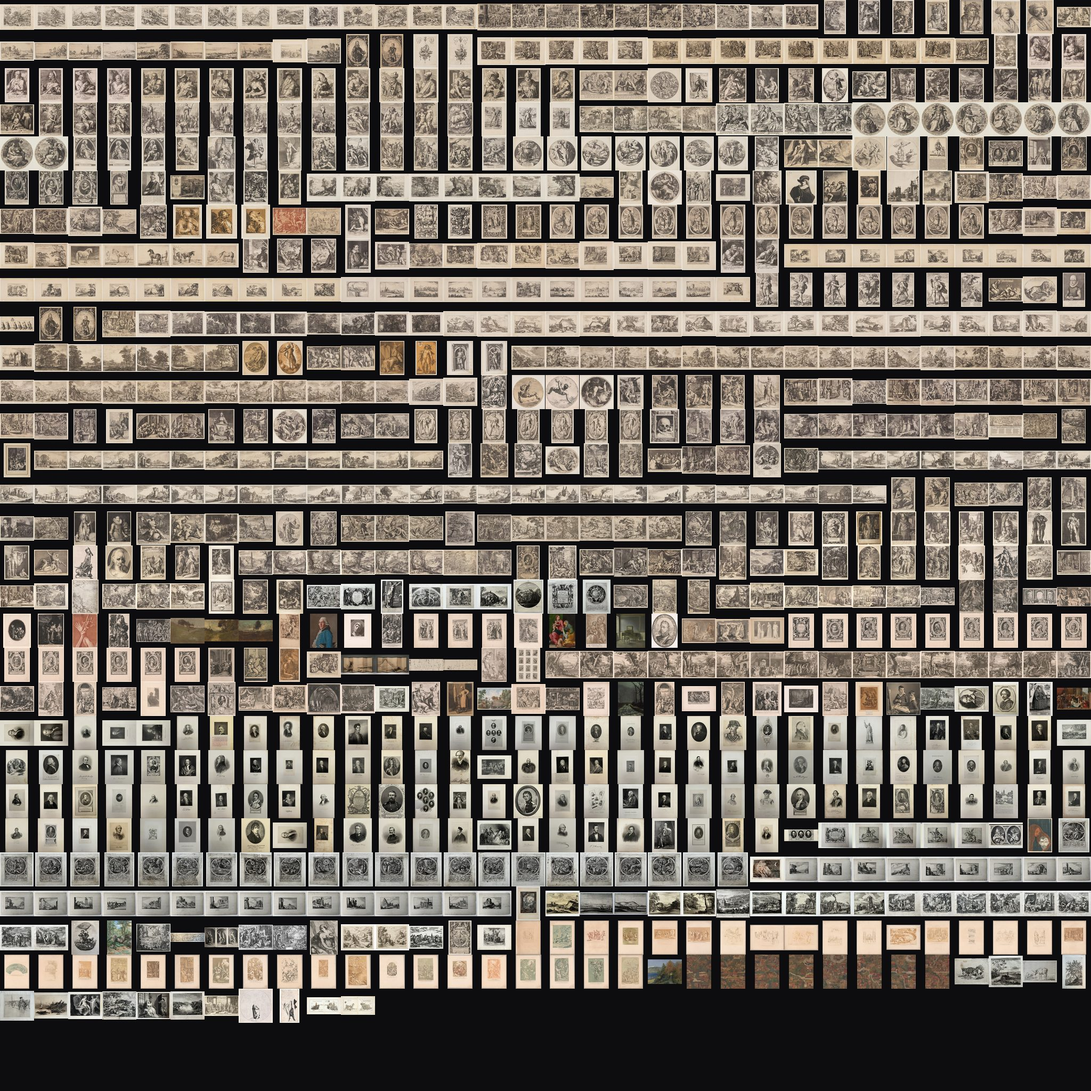
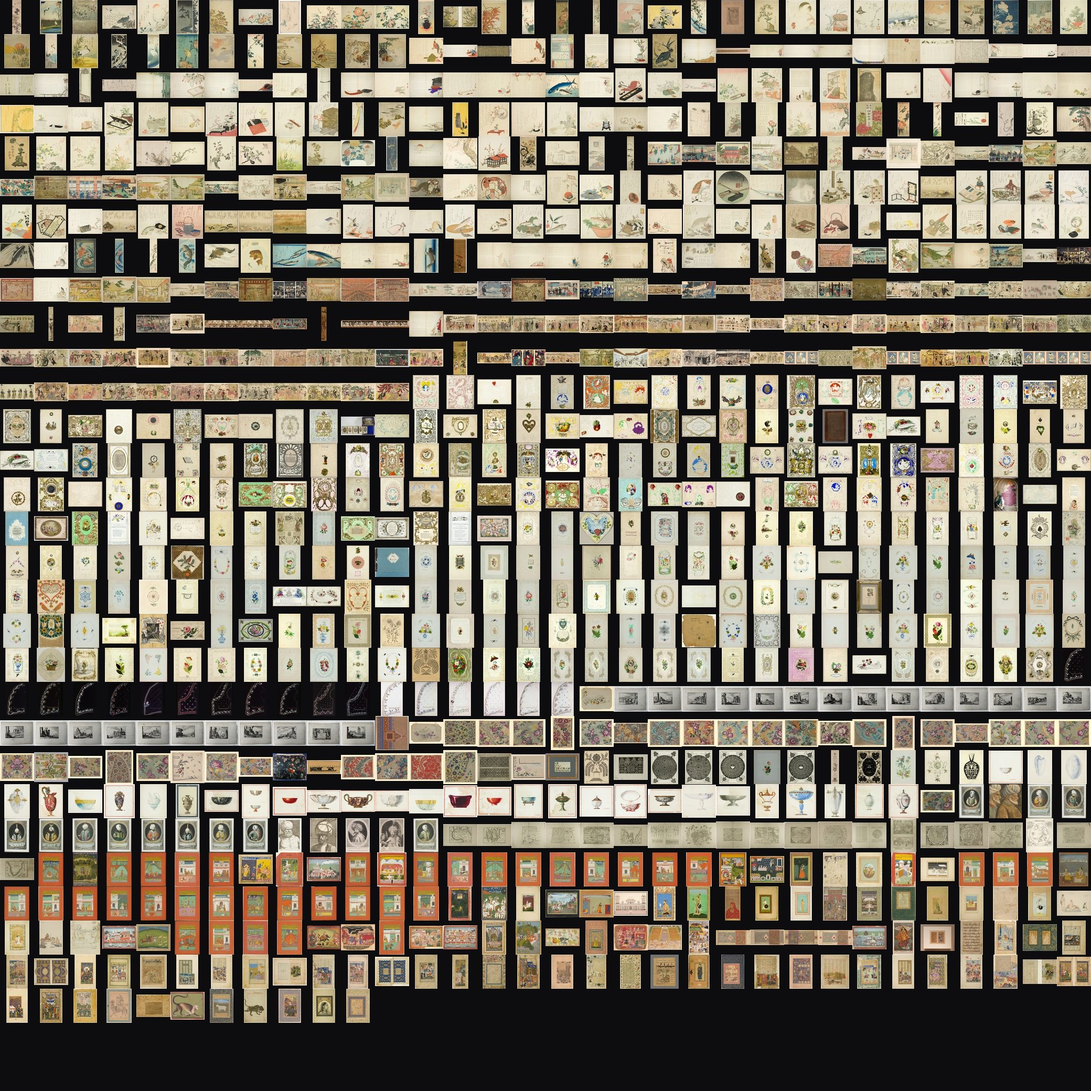
D5c: pack the 64px atlas along the map, and stop fetching it up front
Every visitor was pulling all 25 sheets, 24 MB, before anything could
use them. At the view the map opens on a tile is 1.8 pixels across,
below the 3.5 at which a thumbnail is drawn at all, so the map paints
flat colour and reads no sheet. Anyone who looked and left used none of
it.

Two changes behind that.

The sheets were packed in artwork-id order, which says nothing about
where a work sits, so 400 neighbouring works spanned 23.6 of the 25
sheets and loading a screenful meant loading the atlas. Re-packed along
the same Hilbert curve the high-resolution atlas uses, the same 400
works span 2.8 sheets under Similarity, 10.2 under Place, 9.6 under
Style. Period stays at 18.4; its ribbon reorders the corpus, and one
curve can only follow one arrangement.

Nothing was refetched. Every tile already existed in the old sheets, so
this moves them. Checked the way the atlas has been checked before:
against each work's independently recorded colour, 7.7 of 255 against
its own and 44.4 against an unrelated work's.

And the fetch now waits until the map first wants a thumbnail, which is
the first time anyone zooms in.

The order cannot be checked from inside a JPEG, so D5 now compares the
order it computes against the one the sheets were packed with and says
so if they part company.

diff --git a/web/src/MapCanvas.tsx b/web/src/MapCanvas.tsx
@@ -172,7 +172,7 @@ export interface MapPin {
 
 export function MapCanvas({
   bundle, facet, selected, onSelect, focus, pins, activePin, onOpenPin,
-  onRegion, rightInset, paused,
+  onRegion, rightInset, paused, onNeedAtlas,
 }: {
   bundle: Bundle;
   facet: Facet;
@@ -193,6 +193,9 @@ export function MapCanvas({
    *  tiles a frame; giving that up is most of what makes the wait
    *  bearable, and a half-drawn map is worse than a still one. */
   paused: boolean;
+  /** Called the first time a thumbnail is wanted. The sheets are not
+   *  fetched before that, because the opening view draws flat colour. */
+  onNeedAtlas: () => void;
 }) {
   const canvasRef = useRef<HTMLCanvasElement>(null);
   const viewRef = useRef<View>({ x: 0.5, y: 0.5, scale: 0 });
@@ -237,7 +240,8 @@ export function MapCanvas({
   const flyRef = useRef<
     { from: View; to: View; start: number; ms: number } | null>(null);
 
-  const { works, layouts, atlasMeta, sheets, mips, facets, hires } = bundle;
+  const { works, layouts, atlasMeta, sheets, mips, slots, facets, hires }
+    = bundle;
   // Per facet: a left-to-right timeline is a ribbon an eighth the area
   // of the round layouts, so it carries a smaller tile.
   const radius = layouts.facets[facet].work_radius ?? layouts.work_radius;
@@ -543,6 +547,7 @@ export function MapCanvas({
 
       const pos = posRef.current;
       const size = Math.max(1, radius * 2 * s);
+      if (size >= THUMB_MIN_PX) onNeedAtlas();
       const useThumbs = size >= THUMB_MIN_PX && sheets.length > 0;
       // Below this a tile does not use a 64px cell, it only pays to read
       // one. The reduction is exact at MIP_TILE and a clean downscale
@@ -638,14 +643,17 @@ export function MapCanvas({
           }
         }
 
-        const sheetIndex = (i / per_sheet) | 0;
+        // Its slot, not its index: the sheets are packed along a curve
+        // through the map, so neighbouring works share a sheet.
+        const slot = slots[i];
+        const sheetIndex = (slot / per_sheet) | 0;
         const sheet = useThumbs
           ? (useMip ? mips[sheetIndex] : sheets[sheetIndex]) : undefined;
         if (sheet) {
           // The atlas cell is square with the work letterboxed inside it,
           // so read back only the occupied part. Drawing the whole cell
           // would paint its padding over the neighbouring tiles.
-          const within = i % per_sheet;
+          const within = slot % per_sheet;
           const iw = ar >= 1 ? srcTile : srcTile * ar;
           const ih = ar >= 1 ? srcTile / ar : srcTile;
           ctx.drawImage(
@@ -769,10 +777,10 @@ export function MapCanvas({
         // would only make it blurrier.
         if (box > size) {
           ctx.imageSmoothingEnabled = true;
-          const si = (highlight / per_sheet) | 0;
-          const sh = sheets[si];
+          const hslot = slots[highlight];
+          const sh = sheets[(hslot / per_sheet) | 0];
           if (sh) {
-            const within = highlight % per_sheet;
+            const within = hslot % per_sheet;
             const iw = ar >= 1 ? tile : tile * ar;
             const ih = ar >= 1 ? tile / ar : tile;
             ctx.drawImage(
@@ -829,7 +837,7 @@ export function MapCanvas({
     frame = requestAnimationFrame(draw);
     return () => { cancelAnimationFrame(frame); ro.disconnect(); };
   }, [works, layouts, facet, atlasMeta, sheets, mips, radius, fit, ready,
-      images, hires, hiAtlas, focus, pins, activePin]);
+      images, hires, hiAtlas, focus, pins, activePin, slots, onNeedAtlas]);
 
   useEffect(() => {
     if (!focus) return;

diff --git a/web/src/useData.ts b/web/src/useData.ts
@@ -1,4 +1,4 @@
-import { useEffect, useState } from "react";
+import { useCallback, useEffect, useRef, useState } from "react";
 import type { AtlasMeta, Facets, Layouts, Work } from "./types";
 
 export interface Bundle {
@@ -10,6 +10,10 @@ export interface Bundle {
   sheets: HTMLImageElement[];
   /** Quarter-size copies of the sheets, 16px to a tile. */
   mips: HTMLCanvasElement[];
+  /** Where each work's tile sits in the atlas. The sheets are packed
+   *  along a Hilbert curve through the map rather than in artwork-id
+   *  order, so a work's index no longer says where its tile is. */
+  slots: number[];
   hires: { meta: AtlasMeta; slots: number[] } | null;
 }
 
@@ -66,6 +70,15 @@ function loadImage(src: string): Promise<HTMLImageElement> {
 export function useBundle() {
   const [bundle, setBundle] = useState<Bundle | null>(null);
   const [error, setError] = useState<string | null>(null);
+  // Resolved the first time the map wants a thumbnail. Until then the
+  // sheets are not fetched at all.
+  const gate = useRef<{ promise: Promise<void>; open: () => void }>(undefined!);
+  if (!gate.current) {
+    let open!: () => void;
+    const promise = new Promise<void>((res) => { open = res; });
+    gate.current = { promise, open };
+  }
+  const needAtlas = useCallback(() => gate.current.open(), []);
 
   useEffect(() => {
     let cancelled = false;
@@ -89,10 +102,12 @@ export function useBundle() {
         // state updates, and since `sheets` is a dependency of the effect
         // that owns the render loop, 25 teardowns and restarts of it
         // during the one moment the map is busiest.
+        const slots = await json<number[]>("data/atlas_slots.json");
+        if (cancelled) return;
         const sheets: HTMLImageElement[] = [];
         const mips: HTMLCanvasElement[] = [];
         setBundle({ works, layouts, facets, neighbors: {}, atlasMeta, sheets,
-                    mips, hires: null });
+                    mips, slots, hires: null });
 
         // Only read when a detail panel opens, which cannot happen before
         // there is a map to click on. Awaiting it here put 3.5 MB of JSON
@@ -114,6 +129,15 @@ export function useBundle() {
             }
           })
           .catch(() => { /* no high-resolution atlas built yet */ });
+
+        // Not until the map asks. At the view it opens on, a tile is
+        // under two pixels across, which is below the size at which the
+        // map draws a thumbnail at all: it paints flat colour and reads
+        // no sheet. Fetching all 25 up front spent 24 MB before a single
+        // pixel of it could be used, and anyone who looked at the map
+        // and left never used any of it.
+        await gate.current.promise;
+        if (cancelled) return;
 
         // A few at a time rather than one after another. These were
         // awaited in sequence, so the whole atlas cost 25 round trips
@@ -143,5 +167,5 @@ export function useBundle() {
     return () => { cancelled = true; };
   }, []);
 
-  return { bundle, error };
+  return { bundle, error, needAtlas };
 }

diff --git a/web/src/App.tsx b/web/src/App.tsx
@@ -20,7 +20,7 @@ const FACETS: { key: Facet; label: string }[] = [
 ];
 
 export default function App() {
-  const { bundle, error } = useBundle();
+  const { bundle, error, needAtlas } = useBundle();
   const [facet, setFacet] = useState<Facet>("similarity");
   const [selected, setSelected] = useState<number | null>(null);
   const [focus, setFocus] = useState<Focus | null>(null);
@@ -220,6 +220,7 @@ export default function App() {
           onRegion={(x, y, r) => setFocus({ x, y, r, key: Date.now() })}
           rightInset={rightInset}
           paused={working !== ""}
+          onNeedAtlas={needAtlas}
         />
       </div>
 

diff --git a/web/src/Thumb.tsx b/web/src/Thumb.tsx
@@ -39,10 +39,11 @@ function AtlasCell({ bundle, index }: { bundle: Bundle; index: number }) {
     const canvas = ref.current;
     if (!canvas) return;
     const { tile, grid, per_sheet } = atlasMeta;
-    const sheet = sheets[(index / per_sheet) | 0];
+    const slot = bundle.slots[index];
+    const sheet = sheets[(slot / per_sheet) | 0];
     const ctx = canvas.getContext("2d");
     if (!sheet || !ctx) return;
-    const within = index % per_sheet;
+    const within = slot % per_sheet;
     const ar = works[index].ar ?? 1;
     const iw = ar >= 1 ? tile : tile * ar;
     const ih = ar >= 1 ? tile / ar : tile;

diff --git a/scripts/d5c_repack.py b/scripts/d5c_repack.py
@@ -1,0 +1,77 @@
+#!/usr/bin/env python3
+"""D5c: re-pack the 64px atlas into map order.
+
+    python3 scripts/d5c_repack.py
+
+The sheets were packed in artwork-id order, which has nothing to do with
+where a work sits on the map, so 400 neighbouring works spanned 23.6 of
+the 25 sheets. Loading a screenful meant loading the whole atlas, which
+is why the client loads all of it up front and every visitor pays 24 MB
+before seeing anything.
+
+Packed along the same Hilbert curve the high-resolution atlas uses, the
+same 400 works span 2.8 sheets under Similarity, 10.2 under Place and
+9.6 under Style. Period stays poor at 18.4, because its ribbon reorders
+the corpus completely; one curve can only follow one arrangement.
+
+No images are fetched. Every tile is already in the existing sheets, so
+this only moves them, and both atlases end up sharing one slot table.
+"""
+
+from __future__ import annotations
+
+import json
+from pathlib import Path
+
+from PIL import Image
+
+from pipeline.config import Config
+
+
+def main() -> None:
+    cfg = Config.load()
+    web = Path("web/public/atlas")
+    meta = json.loads((web / "atlas.json").read_text())
+    tile, grid, per = meta["tile"], meta["grid"], meta["per_sheet"]
+
+    ids = json.loads((cfg.paths.processed / "ids.json").read_text())
+    order = json.loads((cfg.paths.processed / "hires_order.json").read_text())
+    slot_of_id = {aid: n for n, aid in enumerate(order)}
+    # Work index -> the slot it should occupy.
+    slots = [slot_of_id[aid] for aid in ids]
+    assert sorted(slots) == list(range(len(ids))), "slots are not a permutation"
+
+    old = [Image.open(web / f"atlas_{s:03d}.jpg").convert("RGB")
+           for s in range(meta["sheets"])]
+    # Slot -> the work index that belongs in it, so each new sheet can be
+    # filled in one pass over its own thousand positions.
+    work_at = [0] * len(slots)
+    for i, s in enumerate(slots):
+        work_at[s] = i
+
+    print(f"re-packing {len(ids):,} tiles across {meta['sheets']} sheets")
+    for s in range(meta["sheets"]):
+        canvas = Image.new("RGB", (meta["sheet_px"], meta["sheet_px"]), (13, 13, 15))
+        for n in range(per):
+            slot = s * per + n
+            if slot >= len(work_at):
+                break
+            i = work_at[slot]
+            src = old[i // per]
+            sx, sy = (i % per) % grid * tile, (i % per) // grid * tile
+            cell = src.crop((sx, sy, sx + tile, sy + tile))
+            canvas.paste(cell, ((n % grid) * tile, (n // grid) * tile))
+        canvas.save(web / f"atlas_{s:03d}.jpg", quality=88, optimize=True)
+        print(f"  sheet {s + 1}/{meta['sheets']}", end="\r")
+
+    meta["ordered"] = True
+    meta["note"] = ("tile index is the work's slot in data/atlas_slots.json, "
+                    "the same order the high-resolution atlas uses")
+    (web / "atlas.json").write_text(json.dumps(meta, indent=2))
+    out = Path("web/public/data/atlas_slots.json")
+    out.write_text(json.dumps(slots, separators=(",", ":")))
+    print(f"\nwrote {out} ({out.stat().st_size / 1024:.0f} KB)")
+
+
+if __name__ == "__main__":
+    main()

diff --git a/pipeline/build_site_data.py b/pipeline/build_site_data.py
@@ -301,6 +301,21 @@ def main() -> None:
           f"{locality(order, umap_xy, 100):.1f} sheets "
           f"(vs {locality(np.arange(len(works)), umap_xy, 100):.1f} unordered)")
 
+    # The 64px sheets were packed along this same curve, and the tiles in
+    # them cannot be checked from here. If this run produces a different
+    # order, every tile on the map is the wrong picture and nothing else
+    # would say so, so say it here.
+    packed = out / "atlas_slots.json"
+    if packed.exists():
+        was = json.loads(packed.read_text())
+        if was != [int(v) for v in slot_of]:
+            print("\n  !! the 64px atlas was packed in a different order "
+                  "than this run computed.")
+            print("     Re-run scripts/d5c_repack.py, or every tile on the "
+                  "map will be the wrong work.\n")
+        else:
+            print("  64px atlas: packed in this order, tiles agree")
+
     (out / "layouts.json").write_text(json.dumps({
         "work_radius": round(layout.work_radius(len(works)), 5),
         "facets": layouts,
